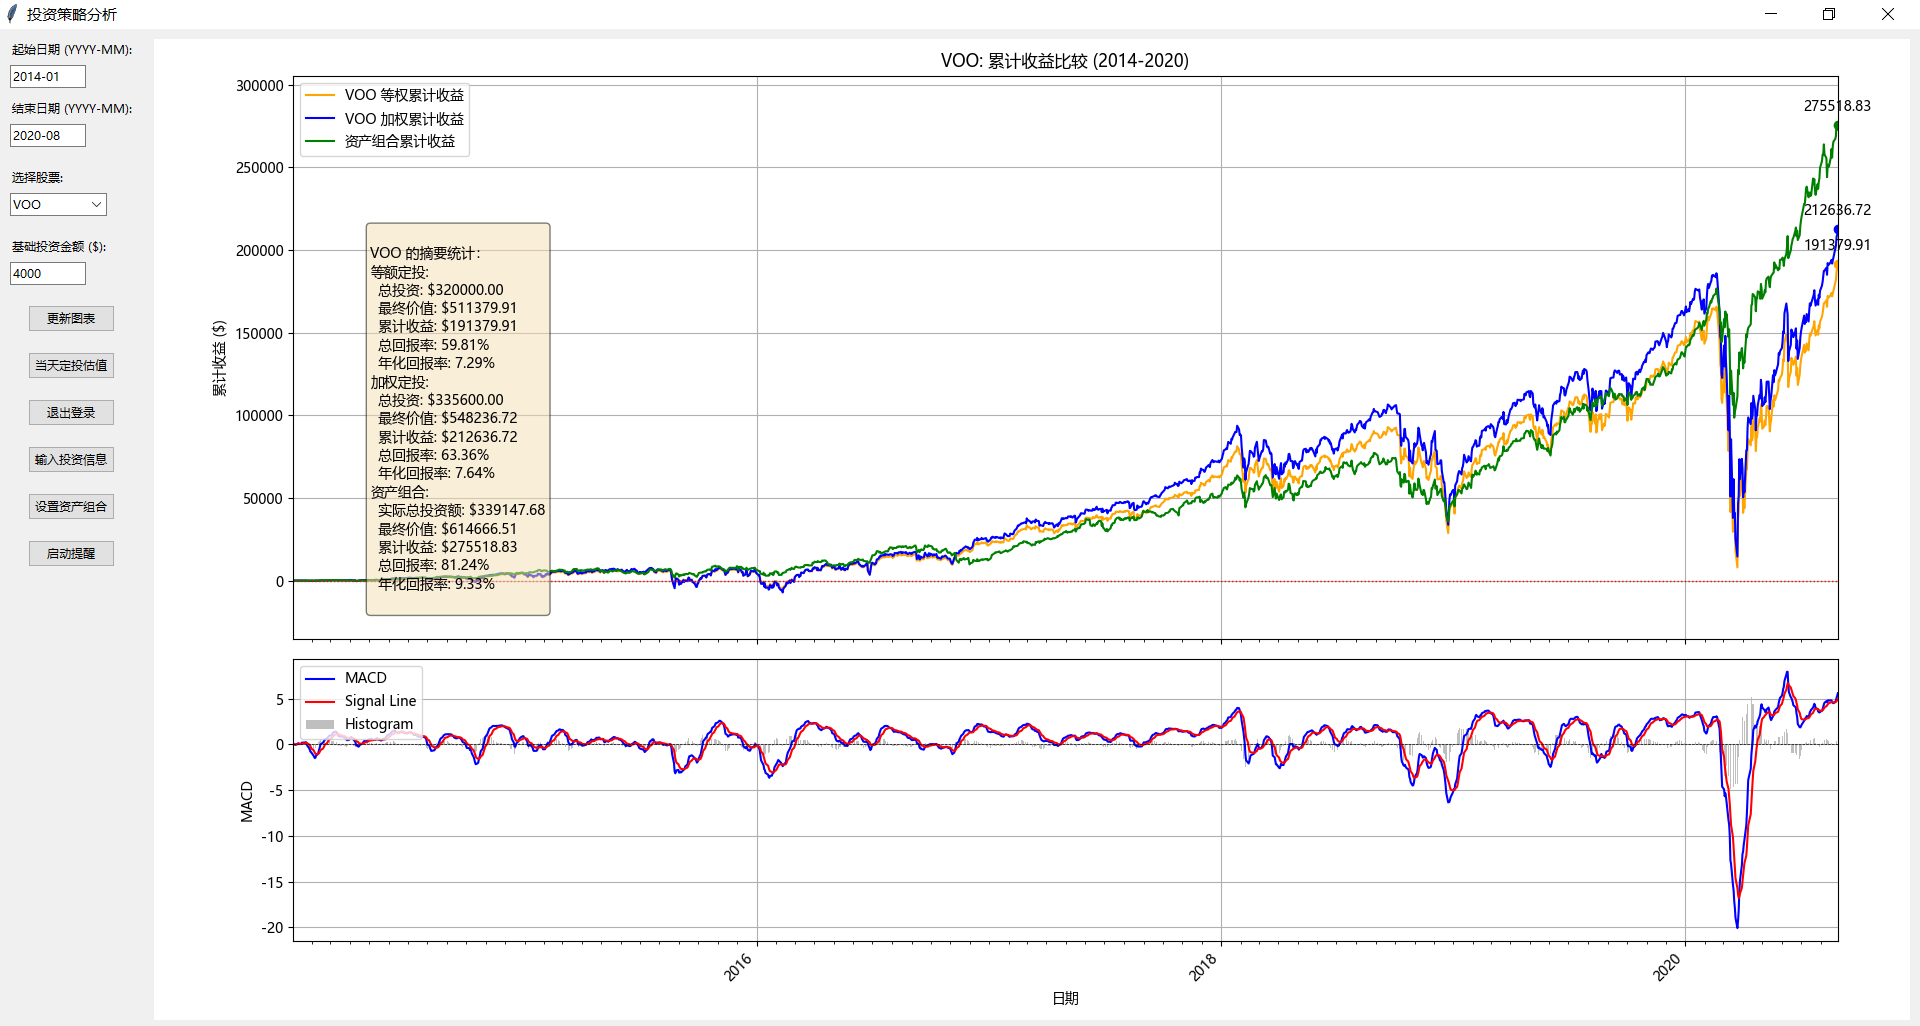
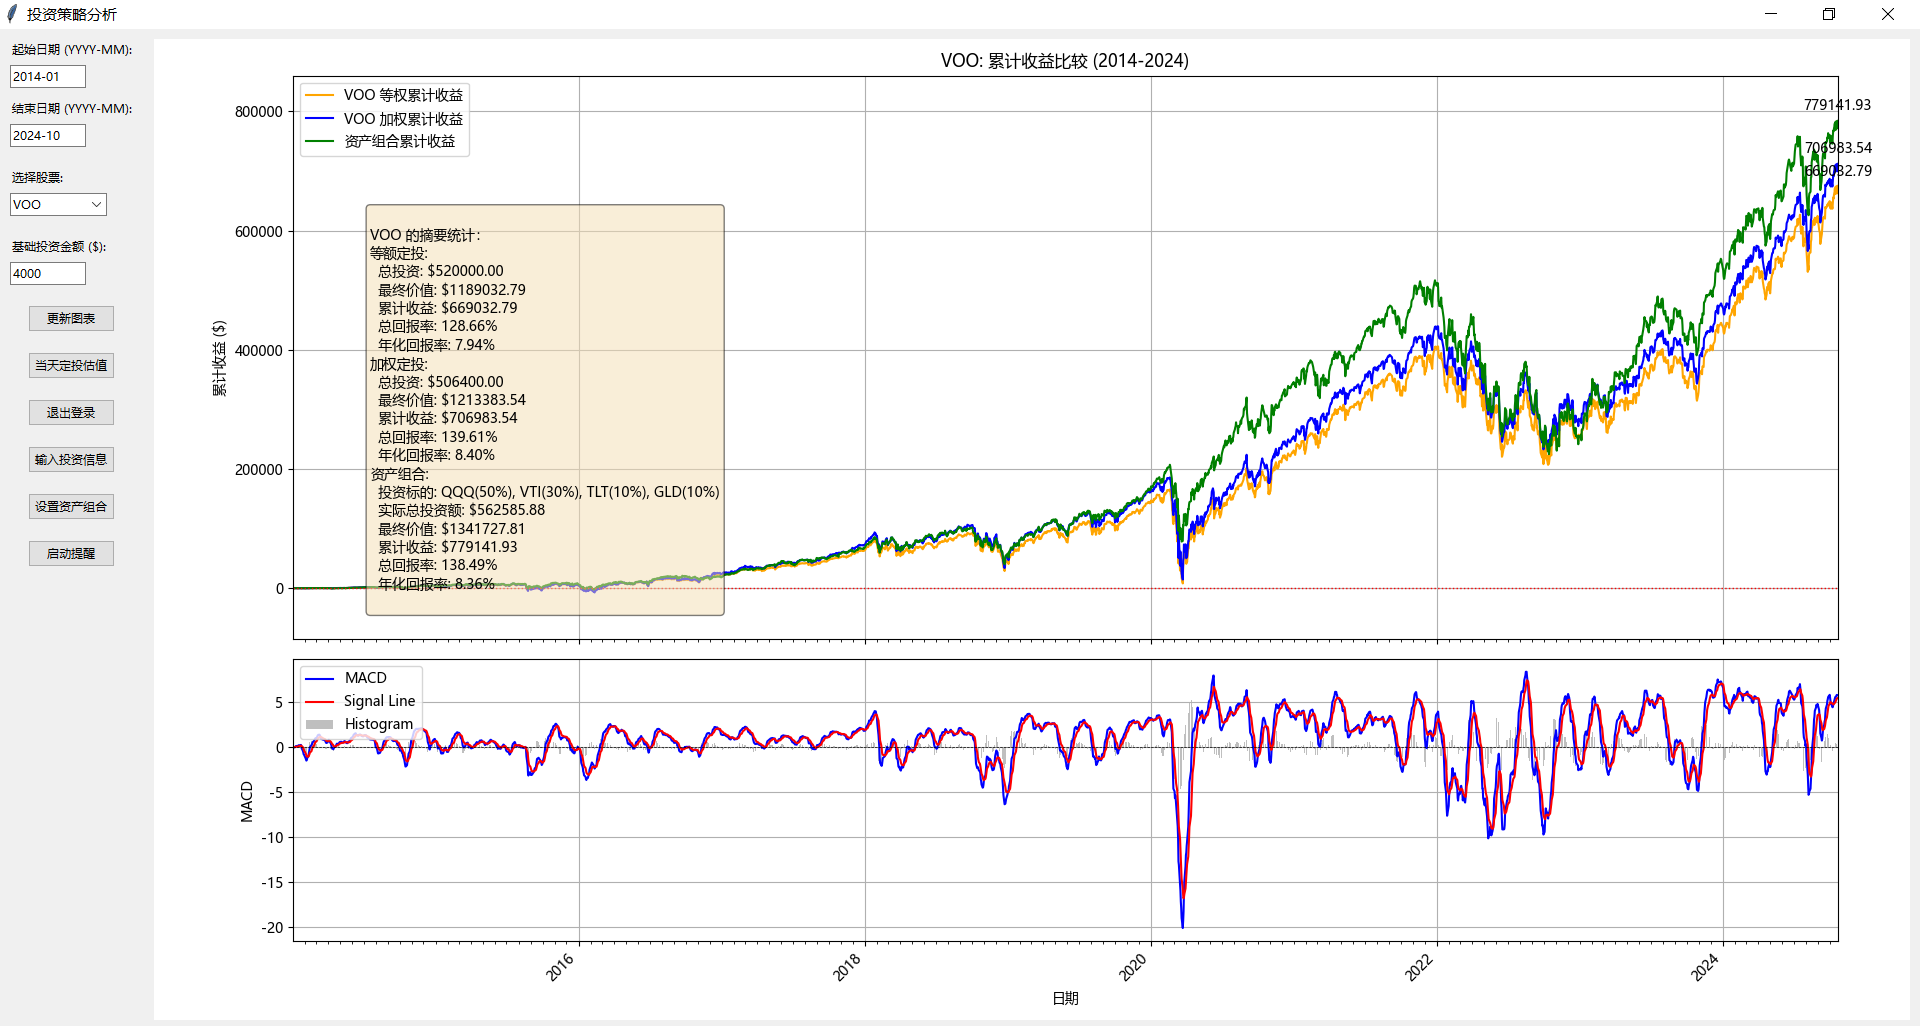
在“资产组合”这个summary里增加一个投资的标的名称和占比。

diff --git a/main.py b/main.py
@@ -987,6 +987,11 @@ class InvestmentApp:
 
             # 生成摘要
             summary += f"资产组合:\n"
+            # 添加投资标的和占比
+            allocations = [f"{asset}({weight * 100:.0f}%)" for asset, weight in self.portfolio_allocations.items() if
+                           weight > 0]
+            summary += f"  投资标的: {', '.join(allocations)}\n"
+            # 继续添加其他统计信息
             summary += f"  实际总投资额: ${total_actual_investment:.2f}\n"
             summary += f"  最终价值: ${portfolio_final_value:.2f}\n"
             summary += f"  累计收益: ${portfolio_cumulative_return:.2f}\n"
@@ -994,7 +999,6 @@ class InvestmentApp:
             summary += f"  年化回报率: {portfolio_annual_return:.2f}%\n"
 
         return summary
-
     def check_internet_connection(self):
         try:
             # 尝试连接到 Yahoo Finance 的网站
